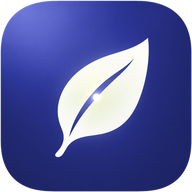
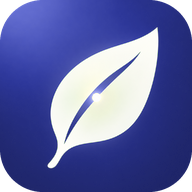
FB-51/FB-52: більший листок на іконках + власне меню режиму пам'яті
FB-51: у maskable-іконці листок займав 32% полотна, а саме її Android бере
на лаунчер і обрізає в коло. Перегенеровано з вихідника 1254x1254 кропом
із зменшенням: maskable/apple 60% повнокадрово без прозорості, "any" 73%
зі скругленням. Тло для maskable добудовано без шва.

FB-52: bottomNavGo() не мав гілки memory, тож режим пам'яті вів у
Бібліотеку/Прогрес текстів. Додано екран memoryLogScreen:
"Спрацювало" і "В роботі" замість текстових розділів.

diff --git a/app.js b/app.js
@@ -214,6 +214,15 @@ const translations = {
         mode_words_label: 'Слова та Фрази', mode_words_desc: 'Нова лексика, переклади, словник',
         // MT-02 (2026-08-15) — режим "Фокуси пам'яті"
         mode_memory_label: 'Фокуси пам\'яті',
+        mem_nav_worked: 'Спрацювало',
+        mem_nav_active: 'В роботі',
+        mem_log_worked_title: 'Спрацювало',
+        mem_log_active_title: 'В роботі',
+        mem_log_worked_sub: 'Випадки, коли формула справді нагадала про себе',
+        mem_log_active_sub: 'Наміри, які ще чекають свого тригера',
+        mem_log_empty_worked: 'Поки порожньо. Перший запис з\'явиться, щойно щось спрацює 🌱',
+        mem_log_empty_active: 'Зараз жодного наміру в роботі — можна створити новий',
+        mem_log_drop: 'Прибрати',
         mode_memory_desc: 'Техніки, якими користуються чемпіони з пам\'яті',
         mem_subtitle: 'Тут тренуємо саму пам\'ять — не текст і не слова',
         mem_pick_age: 'Оберіть вік — у різному віці працюють різні прийоми',
@@ -449,6 +458,15 @@ const translations = {
         mode_words_label: 'Words & Phrases', mode_words_desc: 'New vocabulary, translations, flashcards',
         // MT-02 (2026-08-15) — режим "Фокуси пам'яті"
         mode_memory_label: 'Memory Tricks',
+        mem_nav_worked: 'Worked',
+        mem_nav_active: 'In progress',
+        mem_log_worked_title: 'Worked',
+        mem_log_active_title: 'In progress',
+        mem_log_worked_sub: 'The times the formula actually did remind you',
+        mem_log_active_sub: 'Intentions still waiting for their trigger',
+        mem_log_empty_worked: 'Empty for now. The first entry appears as soon as something works 🌱',
+        mem_log_empty_active: 'Nothing in progress right now — you can add one',
+        mem_log_drop: 'Remove',
         mode_memory_desc: 'The techniques memory champions actually use',
         mem_subtitle: 'Here we train memory itself — not a text, not words',
         mem_pick_age: 'Pick an age — different techniques work at different ages',
@@ -684,6 +702,15 @@ const translations = {
         mode_words_label: 'Słowa i Frazy', mode_words_desc: 'Nowe słownictwo, tłumaczenia, fiszki',
         // MT-02 (2026-08-15) — режим "Фокуси пам'яті"
         mode_memory_label: 'Sztuczki pamięci',
+        mem_nav_worked: 'Zadziałało',
+        mem_nav_active: 'W trakcie',
+        mem_log_worked_title: 'Zadziałało',
+        mem_log_active_title: 'W trakcie',
+        mem_log_worked_sub: 'Sytuacje, w których formuła naprawdę przypomniała',
+        mem_log_active_sub: 'Zamiary, które czekają na swój sygnał',
+        mem_log_empty_worked: 'Na razie pusto. Pierwszy wpis pojawi się, gdy coś zadziała 🌱',
+        mem_log_empty_active: 'Nic w trakcie — możesz dodać nowy',
+        mem_log_drop: 'Usuń',
         mode_memory_desc: 'Techniki, których naprawdę używają mistrzowie pamięci',
         mem_subtitle: 'Tutaj trenujemy samą pamięć — nie tekst i nie słowa',
         mem_pick_age: 'Wybierz wiek — w różnym wieku działają różne techniki',
@@ -919,6 +946,15 @@ const translations = {
         mode_words_label: 'Wörter & Phrasen', mode_words_desc: 'Neues Vokabular, Übersetzungen, Karteikarten',
         // MT-02 (2026-08-15) — режим "Фокуси пам'яті"
         mode_memory_label: 'Gedächtnistricks',
+        mem_nav_worked: 'Geklappt',
+        mem_nav_active: 'Laufend',
+        mem_log_worked_title: 'Geklappt',
+        mem_log_active_title: 'Laufend',
+        mem_log_worked_sub: 'Die Male, bei denen die Formel wirklich erinnert hat',
+        mem_log_active_sub: 'Vorhaben, die noch auf ihren Auslöser warten',
+        mem_log_empty_worked: 'Noch leer. Der erste Eintrag kommt, sobald etwas klappt 🌱',
+        mem_log_empty_active: 'Gerade läuft nichts — du kannst eins anlegen',
+        mem_log_drop: 'Entfernen',
         mode_memory_desc: 'Die Techniken, die Gedächtnismeister wirklich nutzen',
         mem_subtitle: 'Hier trainieren wir das Gedächtnis selbst — keinen Text, keine Wörter',
         mem_pick_age: 'Wähle ein Alter — in jedem Alter wirken andere Techniken',
@@ -1154,6 +1190,15 @@ const translations = {
         mode_words_label: 'Mots & Phrases', mode_words_desc: 'Nouveau vocabulaire, traductions, fiches',
         // MT-02 (2026-08-15) — режим "Фокуси пам'яті"
         mode_memory_label: 'Tours de mémoire',
+        mem_nav_worked: 'A marché',
+        mem_nav_active: 'En cours',
+        mem_log_worked_title: 'A marché',
+        mem_log_active_title: 'En cours',
+        mem_log_worked_sub: 'Les fois où la formule t\'a vraiment rappelé',
+        mem_log_active_sub: 'Les intentions qui attendent encore leur déclencheur',
+        mem_log_empty_worked: 'Vide pour l\'instant. La première entrée arrive dès que ça marche 🌱',
+        mem_log_empty_active: 'Rien en cours — tu peux en ajouter une',
+        mem_log_drop: 'Retirer',
         mode_memory_desc: 'Les techniques qu’utilisent vraiment les champions de mémoire',
         mem_subtitle: 'Ici on entraîne la mémoire elle-même — ni texte, ni mots',
         mem_pick_age: 'Choisis un âge — les techniques efficaces changent avec l’âge',
@@ -1389,6 +1434,15 @@ const translations = {
         mode_words_label: 'Palabras y Frases', mode_words_desc: 'Nuevo vocabulario, traducciones, tarjetas',
         // MT-02 (2026-08-15) — режим "Фокуси пам'яті"
         mode_memory_label: 'Trucos de memoria',
+        mem_nav_worked: 'Funcionó',
+        mem_nav_active: 'En curso',
+        mem_log_worked_title: 'Funcionó',
+        mem_log_active_title: 'En curso',
+        mem_log_worked_sub: 'Las veces que la fórmula sí te lo recordó',
+        mem_log_active_sub: 'Intenciones que aún esperan su señal',
+        mem_log_empty_worked: 'Vacío por ahora. La primera entrada aparece en cuanto algo funcione 🌱',
+        mem_log_empty_active: 'Nada en curso — puedes añadir una',
+        mem_log_drop: 'Quitar',
         mode_memory_desc: 'Las técnicas que de verdad usan los campeones de memoria',
         mem_subtitle: 'Aquí entrenamos la memoria en sí — ni texto, ni palabras',
         mem_pick_age: 'Elige una edad — a cada edad le funcionan técnicas distintas',
@@ -1511,7 +1565,7 @@ function showMotivToast(msg) {
 
 // ----- [app: SCREEN MANAGER]  (was app.js lines 1922-2045) -----
 // ===== SCREEN MANAGER =====
-const SCREENS = ['langScreen','modeScreen','memoryScreen','memoryIntentScreen','inputScreen','setupScreen','learningScreen','restScreen','sessionPauseScreen','finalScreen','profileScreen','wordProfileScreen','progressScreen','wordSelectScreen','profileIdentityScreen','wordLangScreen','wordInputScreen','wordVerifyScreen','wordTopicScreen','wordTrainingScreen','wordResultsScreen'];
+const SCREENS = ['langScreen','modeScreen','memoryScreen','memoryIntentScreen','memoryLogScreen','inputScreen','setupScreen','learningScreen','restScreen','sessionPauseScreen','finalScreen','profileScreen','wordProfileScreen','progressScreen','wordSelectScreen','profileIdentityScreen','wordLangScreen','wordInputScreen','wordVerifyScreen','wordTopicScreen','wordTrainingScreen','wordResultsScreen'];
 // modeScreen/wordLangScreen/wordTopicScreen додано сюди 2026-08-05 (Playful Premium composition
 // pass) — раніше короткий контент цих 3 екранів просто прилипав до верху картки, лишаючи ~50%
 // картки порожньою внизу. FLEX_SCREENS вже мав готовий механізм (display:flex + min-height +
@@ -1523,7 +1577,7 @@ const FLEX_SCREENS = ['sessionPauseScreen','finalScreen','wordResultsScreen','mo
 // бібліотеки/прогресу/профілю (2026-08-07: розділені на 3 окремі екрани, див. коментар
 // над #bottomNav в index.html і D-009 addendum у DECISIONS.md).
 // НЕ показується під час активного навчання/тренування (один екран — одна дія, README UX Designer).
-const BOTTOM_NAV_SCREENS = ['inputScreen','memoryScreen','profileScreen','wordLangScreen','wordProfileScreen','progressScreen','profileIdentityScreen'];
+const BOTTOM_NAV_SCREENS = ['inputScreen','memoryScreen','memoryLogScreen','profileScreen','wordLangScreen','wordProfileScreen','progressScreen','profileIdentityScreen'];
 let currentScreenId = null; // для контексту у зверненнях підтримки — на якому екрані була проблема
 
 function showScreen(id) {
@@ -1598,8 +1652,10 @@ function renderBottomNav() {
     const progLbl = document.getElementById('navProgressLbl');
     const profLbl = document.getElementById('navProfileLbl');
     if (learnLbl) learnLbl.innerText = t.nav_learn || 'Навчання';
-    if (libLbl) libLbl.innerText = t.nav_library || 'Бібліотека';
-    if (progLbl) progLbl.innerText = t.nav_progress || 'Прогрес';
+    // У режимі пам'яті "бібліотека" і "прогрес" означають інше, ніж у текстах:
+    // тут немає вивченого матеріалу, є наміри — ті, що спрацювали, і ті, що в роботі.
+    if (libLbl) libLbl.innerText = (navContext === 'memory' ? (t.mem_nav_worked || 'Спрацювало') : (t.nav_library || 'Бібліотека'));
+    if (progLbl) progLbl.innerText = (navContext === 'memory' ? (t.mem_nav_active || 'В роботі') : (t.nav_progress || 'Прогрес'));
     if (profLbl) profLbl.innerText = t.nav_profile || 'Профіль';
     document.querySelectorAll('.bottom-nav-item').forEach(btn => {
         btn.classList.toggle('active', btn.dataset.nav === navActiveTab);
@@ -1611,6 +1667,13 @@ function renderBottomNav() {
 // (тепер без hero), showProgressScreen = нове, memori_stats, openProfileIdentity = нове,
 // лише особисте — hero переїхав туди). Див. коментар над #bottomNav в index.html.
 function bottomNavGo(tab) {
+    if (navContext === 'memory') {
+        if (tab === 'learn') openMemoryScreen();
+        else if (tab === 'library') openMemoryLog('worked');
+        else if (tab === 'progress') openMemoryLog('active');
+        else openProfileIdentity(openMemoryScreen);
+        return;
+    }
     if (navContext === 'words') {
         if (tab === 'learn') showWordLangScreen();
         else if (tab === 'library') openWordProfile(showWordLangScreen, 'progress');
@@ -3018,4 +3081,53 @@ function saveIntent() {
     }
     showMotivToast(t.mem_saved || '');
     openMemoryScreen();
+}
+
+
+// ---- Журнал намірів (FB-52): "Спрацювало" і "В роботі" для режиму пам'яті ----
+
+let memLogView = 'worked';
+
+function openMemoryLog(view) {
+    memLogView = view;
+    showScreen('memoryLogScreen');
+    setBottomNav('memory', view === 'worked' ? 'library' : 'progress');
+    updateThemeToggleFab();
+    updateProfileNavAvatar();
+    renderMemoryLog();
+}
+
+function renderMemoryLog() {
+    const t = translations[currentLang] || translations.en;
+    const all = loadMemoryState().intentions;
+    const worked = memLogView === 'worked';
+    const items = worked
+        ? all.filter(i => i.result === 'yes')
+        : all.filter(i => !i.checkedAt);
+
+    document.getElementById('memLogBackLabel').innerText = t.back_lang || 'Назад';
+    document.getElementById('memLogTitle').innerText =
+        worked ? (t.mem_log_worked_title || '') : (t.mem_log_active_title || '');
+    document.getElementById('memLogSubtitle').innerText =
+        worked ? (t.mem_log_worked_sub || '') : (t.mem_log_active_sub || '');
+
+    const wrap = document.getElementById('memLogList');
+    if (!items.length) {
+        wrap.innerHTML = '<p class="mem-log-empty">' +
+            escHtml(worked ? (t.mem_log_empty_worked || '') : (t.mem_log_empty_active || '')) + '</p>';
+        return;
+    }
+    wrap.innerHTML = items.map(function (i) {
+        return '<div class="mem-log-item">' +
+            '<div class="mem-log-phrase">' + escHtml(memIntentPhrase(i.trigger, i.text)) + '</div>' +
+            (worked ? '' :
+              '<button class="btn-ghost mem-log-del" onclick="dropIntention(\'' + i.id + '\')">' +
+              escHtml(t.mem_log_drop || '') + '</button>') +
+        '</div>';
+    }).join('');
+}
+
+function dropIntention(id) {
+    deleteIntention(id);
+    renderMemoryLog();
 }

diff --git a/index.html b/index.html
@@ -14,7 +14,7 @@
     <link rel="preconnect" href="https://fonts.googleapis.com" />
     <link rel="preconnect" href="https://fonts.gstatic.com" crossorigin />
     <link href="https://fonts.googleapis.com/css2?family=Inter:wght@400;500;600;700;800&display=swap" rel="stylesheet" />
-    <link rel="stylesheet" href="style.css?v=104" />
+    <link rel="stylesheet" href="style.css?v=105" />
   </head>
   <body>
     <div class="container">
@@ -23,8 +23,8 @@
         <!-- Language Screen -->
         <div id="langScreen">
           <div class="logo-block">
-            <img class="logo-svg logo-light" src="icon-192.png?v=2" width="34" height="34" alt="Everlea" />
-            <img class="logo-svg logo-dark" src="icon-192-dark.png?v=2" width="34" height="34" alt="Everlea" />
+            <img class="logo-svg logo-light" src="icon-192.png?v=3" width="34" height="34" alt="Everlea" />
+            <img class="logo-svg logo-dark" src="icon-192-dark.png?v=3" width="34" height="34" alt="Everlea" />
             <span class="logo-text">Everlea</span>
           </div>
           <p class="lang-hint">Choose your language</p>
@@ -120,8 +120,8 @@
             </button>
           </div>
           <div class="logo-block">
-            <img class="logo-svg logo-light" src="icon-192.png?v=2" width="28" height="28" alt="Everlea" />
-            <img class="logo-svg logo-dark" src="icon-192-dark.png?v=2" width="28" height="28" alt="Everlea" />
+            <img class="logo-svg logo-light" src="icon-192.png?v=3" width="28" height="28" alt="Everlea" />
+            <img class="logo-svg logo-dark" src="icon-192-dark.png?v=3" width="28" height="28" alt="Everlea" />
             <h1 class="logo-text" style="font-size:1.6rem;" id="memTitle">Фокуси пам'яті</h1>
           </div>
           <p class="role-subtitle" id="memSubtitle"></p>
@@ -153,6 +153,19 @@
           <div id="memIntentBody"></div>
         </div>
 
+        <!-- Memory Log Screen — "Спрацювало" / "В роботі" (FB-52) -->
+        <div id="memoryLogScreen" style="display:none;">
+          <div class="input-topbar">
+            <button onclick="openMemoryScreen()" class="btn-back">
+              <svg width="16" height="16" viewBox="0 0 24 24" fill="none" stroke="currentColor" stroke-width="2.5" stroke-linecap="round" stroke-linejoin="round"><path d="m15 18-6-6 6-6"/></svg>
+              <span id="memLogBackLabel">Назад</span>
+            </button>
+          </div>
+          <h1 class="logo-text" style="font-size:1.5rem;margin-bottom:6px;" id="memLogTitle"></h1>
+          <p class="role-subtitle" id="memLogSubtitle"></p>
+          <div id="memLogList"></div>
+        </div>
+
         <!-- Input Screen -->
         <div id="inputScreen" style="display: none">
           <div class="input-topbar">
@@ -166,8 +179,8 @@
             </button>
           </div>
           <div class="logo-block">
-            <img class="logo-svg logo-light" src="icon-192.png?v=2" width="28" height="28" alt="Everlea" />
-            <img class="logo-svg logo-dark" src="icon-192-dark.png?v=2" width="28" height="28" alt="Everlea" />
+            <img class="logo-svg logo-light" src="icon-192.png?v=3" width="28" height="28" alt="Everlea" />
+            <img class="logo-svg logo-dark" src="icon-192-dark.png?v=3" width="28" height="28" alt="Everlea" />
             <h1 class="logo-text" style="font-size:1.6rem;">Everlea</h1>
           </div>
           <p id="roleSubtitle" class="role-subtitle"></p>
@@ -861,7 +874,7 @@
     <script src="audio.js?v=2"></script>
     <script src="learning.js?v=14"></script>
     <script src="words.js?v=27"></script>
-    <script src="app.js?v=117"></script>
+    <script src="app.js?v=118"></script>
     <script>
       if ('serviceWorker' in navigator) {
         navigator.serviceWorker.register('./sw.js').catch(() => {});

diff --git a/style.css b/style.css
@@ -3829,3 +3829,18 @@ body[data-theme="dark"] .support-fab-badge { border-color: #1f2937; }
   text-align: center;
 }
 .mem-foot { font-size: 0.82rem; color: #888; text-align: center; margin-top: 18px; }
+
+/* Журнал намірів — режим пам'яті (FB-52) */
+.mem-log-item {
+  display: flex;
+  align-items: center;
+  gap: 10px;
+  min-width: 0;
+  padding: 14px 16px;
+  margin-bottom: 10px;
+  border: 1.5px solid var(--border);
+  border-radius: 14px;
+}
+.mem-log-phrase { flex: 1; min-width: 0; font-size: 0.9rem; line-height: 1.5; color: var(--text); }
+.mem-log-del { flex-shrink: 0; }
+.mem-log-empty { font-size: 0.9rem; color: #888; text-align: center; padding: 28px 12px; line-height: 1.6; }

diff --git a/sw.js b/sw.js
@@ -1,4 +1,4 @@
-const CACHE = 'memori-v74';
+const CACHE = 'memori-v75';
 const CORE = [
   './index.html',
   './state.js',

diff --git a/_manager/BACKLOG.md b/_manager/BACKLOG.md
@@ -14,6 +14,8 @@
 |---|------|---------|--------|-----------|
 | FB-50 | Лого в темній темі має бути іншого кольору, зелений квадрат не пасує до індиго-палітри темної теми (`--primary: #818cf8` на `#0d1117`) | Branding / CSS | ✅ Done — 2026-08-15. Згенеровано `icon-192-dark.png` (PIL: hue→234.5°, S×0.72, V піднято до 0.30+V×0.70 щоб темний кут не зникав на картці `#161b27`; білий листок недоторканий — рекол по S з плавним переходом, без ореолу на антиаліасингу). Перемикання чистим CSS `body[data-theme="dark"] .logo-light/.logo-dark`, без JS | 🟡 Medium |
 | FB-49 | **BUG** Оновлене лого листка не з'являлось на головній сторінці — оновили лише файли іконок PWA (`icon-*.png`, `icon.svg`), а логотип у шапці застосунку був окремим захардкодженим inline-SVG старого листка в `index.html` (2 місця: langScreen + inputScreen). Старий `icon.svg` використовував ті самі Lucide-контури, тому до оновлення іконки розбіжності не було видно | Branding / HTML | ✅ Done — 2026-08-15. Обидва inline-SVG замінено на `<img src="icon-192.png?v=2">` (PNG уже має прозорі скруглені кути, border-radius не потрібен). `sw.js` `memori-v70`→`v71` щоб телефон перезабрав `index.html` | 🟡 Medium |
+| FB-51 | Лого на робочому столі телефона дуже маленьке — листок ледь видно, не видно світла з нього (скріншот Android) | Branding / PWA | ✅ Done — 2026-08-15. Причина не в розмірі іконки взагалі: у `icon-*-maskable.png` листок займав **32%** полотна, а саме maskable Android бере на лаунчер і ще й обрізає в коло. `apple-touch-icon` — 31%, та сама біда. Перегенеровано з вихідника 1254×1254 кропом і зменшенням (не апскейлом): maskable/apple тепер 60% (повнокадрові, без прозорості — систему маскує сама), «any» 73% зі скругленням. Білі кути вихідника виключено (заміряний відступ 100px); нестачу тла для maskable добудовано продовженням краю + розмиттям + м'яким переходом, шва немає (перепад яскравості по фону = 2) | 🔴 High |
+| FB-52 | **BUG** У режимі «Фокуси пам'яті» нижнє меню вело в Бібліотеку/Прогрес ТЕКСТІВ — не те, що тут вчать | Memory / Nav | ✅ Done — 2026-08-15. `bottomNavGo()` мав лише гілки `words` і «все інше» (=текст), тож `navContext='memory'` падав у текстову. Додано третю гілку + власний екран `memoryLogScreen`: у цьому режимі «бібліотека» = наміри, які спрацювали, «прогрес» = наміри в роботі. Підписи меню теж контекстні (Спрацювало / В роботі), i18n ×6 | 🔴 High |
 | MT-00 | Агент-спеціаліст з тренування пам'яті + доказовий аналіз (що реально працює, що ні) | Process / Research | ✅ Done — 2026-08-15. Створено `AGENTS/memory-trainer/README.md` (4 🔴-правила: доказова межа, проспективний біль ≠ епізодична пам'ять, вікова адаптація, не діагностуємо) і `_manager/MEMORY-TRAINING-RESEARCH.md` (5 механізмів, каталог E-01…E-11 з віковими позначками, ладдер технік за віком, список заборонених формулювань) | 🔴 High |
 | MT-01 | **E-03 Відкладене пригадування** — те, що вчив зараз, спитати через 20 хв / наступного дня push-нагадуванням | Memory / Notifications | 📋 — найкраще співвідношення доказ/зусилля, нотифікації вже є | 🔴 High |
 | MT-02 | ✅ **РЕАЛІЗОВАНО 2026-08-15.** **E-04 «Якщо-то»** — implementation intentions: «коли наступного разу відкриєш холодильник — згадай X», увечері перевірка. Єдина вправа, що прямо б'є в проспективну пам'ять («забув що купити» / «забув здати зошит»). Для дітей тригер має бути фізично помітним, не контекстним | Memory / Notifications | ✅ Done — третя картка на `#modeScreen`, екрани `memoryScreen`/`memoryIntentScreen`, вибір вікової групи, 3-крокова вправа, вечірня перевірка, i18n ×6 мов | 🔴 High |

diff --git a/_manager/STATUS.md b/_manager/STATUS.md
@@ -1425,3 +1425,24 @@ Grep `M11 20A7 7 0 0 1 9.8` по всьому дереву — старих ін
 Версії: `app.js?v=`117, `style.css?v=`104, `state.js?v=`16, `sw.js` `v74`.
 
 **Перейменування репозиторію не відбулось** — перевірено, `github.com/eremeevakatja-ship-it/everlea` віддає 404. User написала «перейменувала але не зберігається».
+
+---
+
+## 2026-08-15 (продовження) — FB-51 іконки, FB-52 меню режиму
+
+**FB-51.** User показала скріншот Android: іконка Everlea на робочому столі — крихітний листок у зеленому колі. Заміряно реальну причину: у `icon-512-maskable.png` листок займав **32%** полотна, у `apple-touch-icon.png` — 31%, тоді як у `icon-512.png` («any») — 62%. Android на лаунчер бере саме maskable і додатково обрізає в коло, тому 32% перетворюються на «ледь видно». Попередній прохід, вочевидь, перестрахувався з safe zone.
+
+Перегенеровано з вихідника `memori icon.png` (1254×1254) — **кроп + зменшення, не апскейл**: 1254→512 це зменшення вдвічі, тому різкість зростає. Заміряно bbox листка (605×772, центр 664,636) і відступ, за яким у кадр не потрапляють білі кути вихідника (100px — підбирався перевіркою рамки, перші спроби 60–90px ще ловили біле).
+
+- «any» (`icon-512/192.png`) — листок 73%, скруглення накладаємо самі (суперсемплінг ×4)
+- maskable (`icon-512/192-maskable.png`) — листок 60%, **повнокадрово й без прозорості**: систему маскує сама, тому власне скруглення дало б подвійне обрізання
+- `apple-touch-icon.png` — теж повнокадровий непрозорий: iOS не підтримує прозорість у цьому файлі (малює чорним) і накладає власну squircle-маску
+- `icon-192-dark.png` перегенеровано з нового
+
+Вихіднику бракує тла, щоб дати maskable потрібні 60% (за скругленням — біле), тому кільце добудовано: продовження краю + розмиття + вставка різкого кропу з м'яким переходом. Перша спроба (проста вставка) дала видимий шов — переміряно: тепер максимальний перепад яскравості по чистому фону = 2, шва немає.
+
+**FB-52.** User: «фокуси пам'яті — там прогрес та бібліотека як в текстах, там щось інше має бути саме те що тут і вчать». Причина: `bottomNavGo()` мав лише дві гілки — `words` і «все інше», тому `navContext='memory'` тихо провалювався в текстову. Додано третю гілку і новий екран `memoryLogScreen`: «бібліотека» тут = наміри, які спрацювали, «прогрес» = наміри в роботі (з кнопкою прибрати). Підписи меню теж контекстні — «Спрацювало» / «В роботі», i18n ×6.
+
+Перевірено `javascript_tool`: у режимі пам'яті меню «Навчання | Спрацювало | В роботі | Профіль», кнопка «бібліотека» відкриває `memoryLogScreen` (не `profileScreen`), списки розкладаються правильно, «навчання» повертає на `memoryScreen`; у текстовому режимі підписи лишились «Навчання | Бібліотека | Прогрес | Профіль» — контекст текстів не зламано.
+
+Версії: `app.js?v=`118, `style.css?v=`105, іконки `?v=3`, `sw.js` `v75`.
